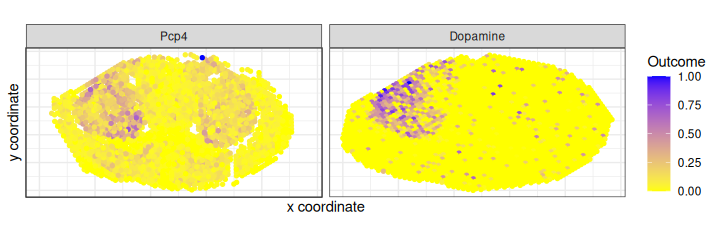
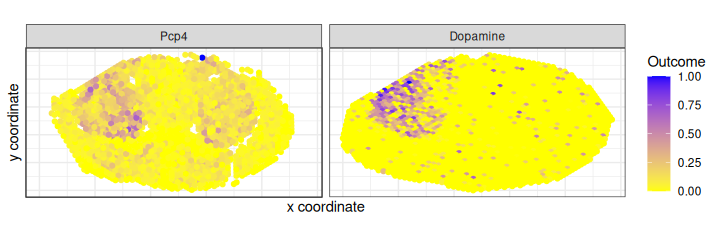
Update readme

diff --git a/README.md b/README.md
@@ -9,10 +9,11 @@ framework as obtained from alignment is considered given.
 
 <!-- % As introduced in our [preprint](). -->
 
-The package can be installed from GitHub as follows:
+The package can be installed from GitHub (with suggested packages
+through dependencies = TRUE) as follows:
 
 ``` r
-remotes::install_github("sthawinke/sbivar", build_vignettes = TRUE)
+remotes::install_github("sthawinke/sbivar", build_vignettes = TRUE, dependencies = TRUE)
 ```
 
 Once installed, you can load the package
@@ -65,7 +66,14 @@ Prepare multithreading
 
 ``` r
 library(BiocParallel)
-register(MulticoreParam(2))
+nCores <- 2
+if (.Platform$OS.type == "unix") {
+    # On unix-based systems (linux and macOS), use MulticoreParam
+    register(MulticoreParam(nCores))
+} else {
+    # On windows, use SnowParam
+    register(SnowParam(workers = nCores, type = "SOCK"))
+}
 ```
 
 Now analyse this single sample using bivariate Moran’s I.